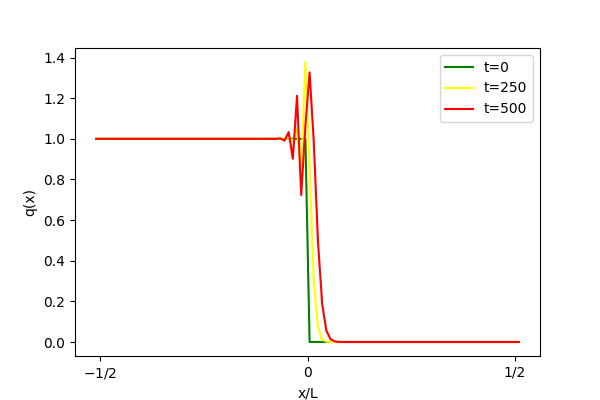
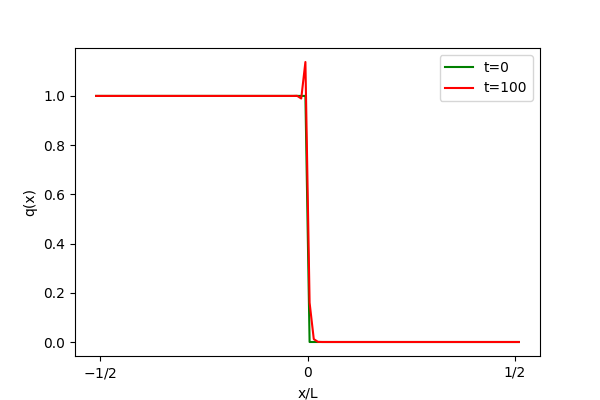
continued

diff --git a/09/code/task_1.py b/09/code/task_1.py
@@ -11,17 +11,20 @@ x = np.linspace(-L/2-dx, L/2+dx, num=x_N+2)
 q_0 = (x - np.abs(x))/(2*x)
 
 
-def plot(q, task, scheme='upwind', ts=[0, 250, 500]):
+def plot(q, task, scheme='upwind', ts=[0, 100], xlims=None):
     plt.figure(figsize=(6, 4))
 
-    colors = ['green', 'yellow', 'red']
+    colors = ['green', 'red']
     for idx, t in enumerate(ts):
         plt.plot(x, q[t], label=f"t={t}", color=colors[idx])
 
-    plt.xticks([-L/2, 0, L/2], ['$-1/2$', 0, '1/2'])
     plt.xlabel('x/L')
     plt.ylabel('q(x)')
-    # plt.xlim(-L, L)
+    if xlims:
+        plt.xlim(xlims[0], xlims[1])
+        plt.xticks([xlims[0], 0, xlims[1]], [xlims[0]/L, 0, xlims[1]/L])
+    else:
+        plt.xticks([-L/2, 0, L/2], ['$-1/2$', 0, '1/2'])
 
     plt.legend()
     plt.savefig(f"../figures/{scheme}_{task}.png")
@@ -30,19 +33,20 @@ def plot(q, task, scheme='upwind', ts=[0, 250, 500]):
 
 # exercise 01, part 1, 2, 3
 for idx, scheme in enumerate(['symmetric', 'upwind', 'downwind']):
-    q = advection(q_0, scheme=scheme, t_N=500)
+    q = advection(q_0, scheme=scheme)
     plot(q, idx+1, scheme=scheme)
 
 # exercise 01, part 4, 5
-q = advection(q_0, boundary_conditions=[.5, 0], t_N=10000)
-plot(q, 4, ts=[0, 1000, 10000])
-q = advection(q_0, boundary_conditions=[1, .5], t_N=10000)
-plot(q, 5, ts=[0, 1000, 10000])
+q = advection(q_0, boundary_conditions=[.5, 0])
+plot(q, 4)
+q = advection(q_0, boundary_conditions=[1, .5])
+plot(q, 5)
 
 # exercise 01, part 6, 7
+xlims = [-.1*L, .1*L]
 q = advection(q_0, t_N=100)
-plot(q, '6_0', ts=[3])
+plot(q, '6_0', ts=[100], xlims=xlims)
 q = advection(q_0, t_N=1000)
-plot(q, 6, ts=[3])
+plot(q, 6, ts=[1000], xlims=xlims)
 q = advection(q_0, t_N=10)
-plot(q, 7, ts=[3])
+plot(q, 7, ts=[10], xlims=xlims)

diff --git a/09/tex/task02.tex b/09/tex/task02.tex
@@ -26,7 +26,10 @@ length of the $q$ array.
 \paragraph{8. Apply your function to exercise 1.1 above 
     (with a constant velocity $v=1$) and convince yourself 
     that your function reproduces the same results.
-}
+} \ \\
+    \\
+    \lstinputlisting[firstline=4,lastline=21]{../code/ex2.py}
+
 
 \paragraph{9. Now let us choose the velocity $v(x)=-2x/L$. 
     This is a converging velocity field. Take as an initial 
@@ -34,4 +37,10 @@ length of the $q$ array.
     $q(x,0)=0$ for $|x|>L/4$. Integrate again in time from 
     $t=0$ to $t=3$ with 100 time steps. Plot the result at 
     different times and explain the result.
-}
+} \ \\
+    \\
+    \begin{figure}[h!]
+        \centering
+        \includegraphics[width=\textwidth]{../figures/2.png}
+        \caption{}
+    \end{figure} \ \\ 

diff --git a/09/tex/task01.tex b/09/tex/task01.tex
@@ -45,7 +45,10 @@ $t=3$ using 100 equal-size time steps $\Delta t$.
     \lstinputlisting[firstline=4, lastline=29]{../code/advection.py}
     \newpage\noindent
     Plotting:
-    \lstinputlisting[firstline=6, lastline=35]{../code/task_1.py}
+    \lstinputlisting[firstline=6, lastline=35]{../code/task_1.py} \ \\
+    As one can see in the plot below, the 
+    symmetrical scheme leads to high-frequency 
+    oscillations near $x=0$.
     \begin{figure}[h!]
         \centering
         \includegraphics[width=.6\textwidth]{../figures/symmetric_1.png}

diff --git a/09/code/advection.py b/09/code/advection.py
@@ -3,7 +3,7 @@ import numpy as np
 
 def main(
     q_0, scheme="upwind", v=1, x_N=100, L=10,
-    t_end=30, t_N=100, boundary_conditions=[1, 0]
+    t_end=3., t_N=100, boundary_conditions=[1, 0]
 ):
     dx = x_N / L
     dt = t_end / t_N
